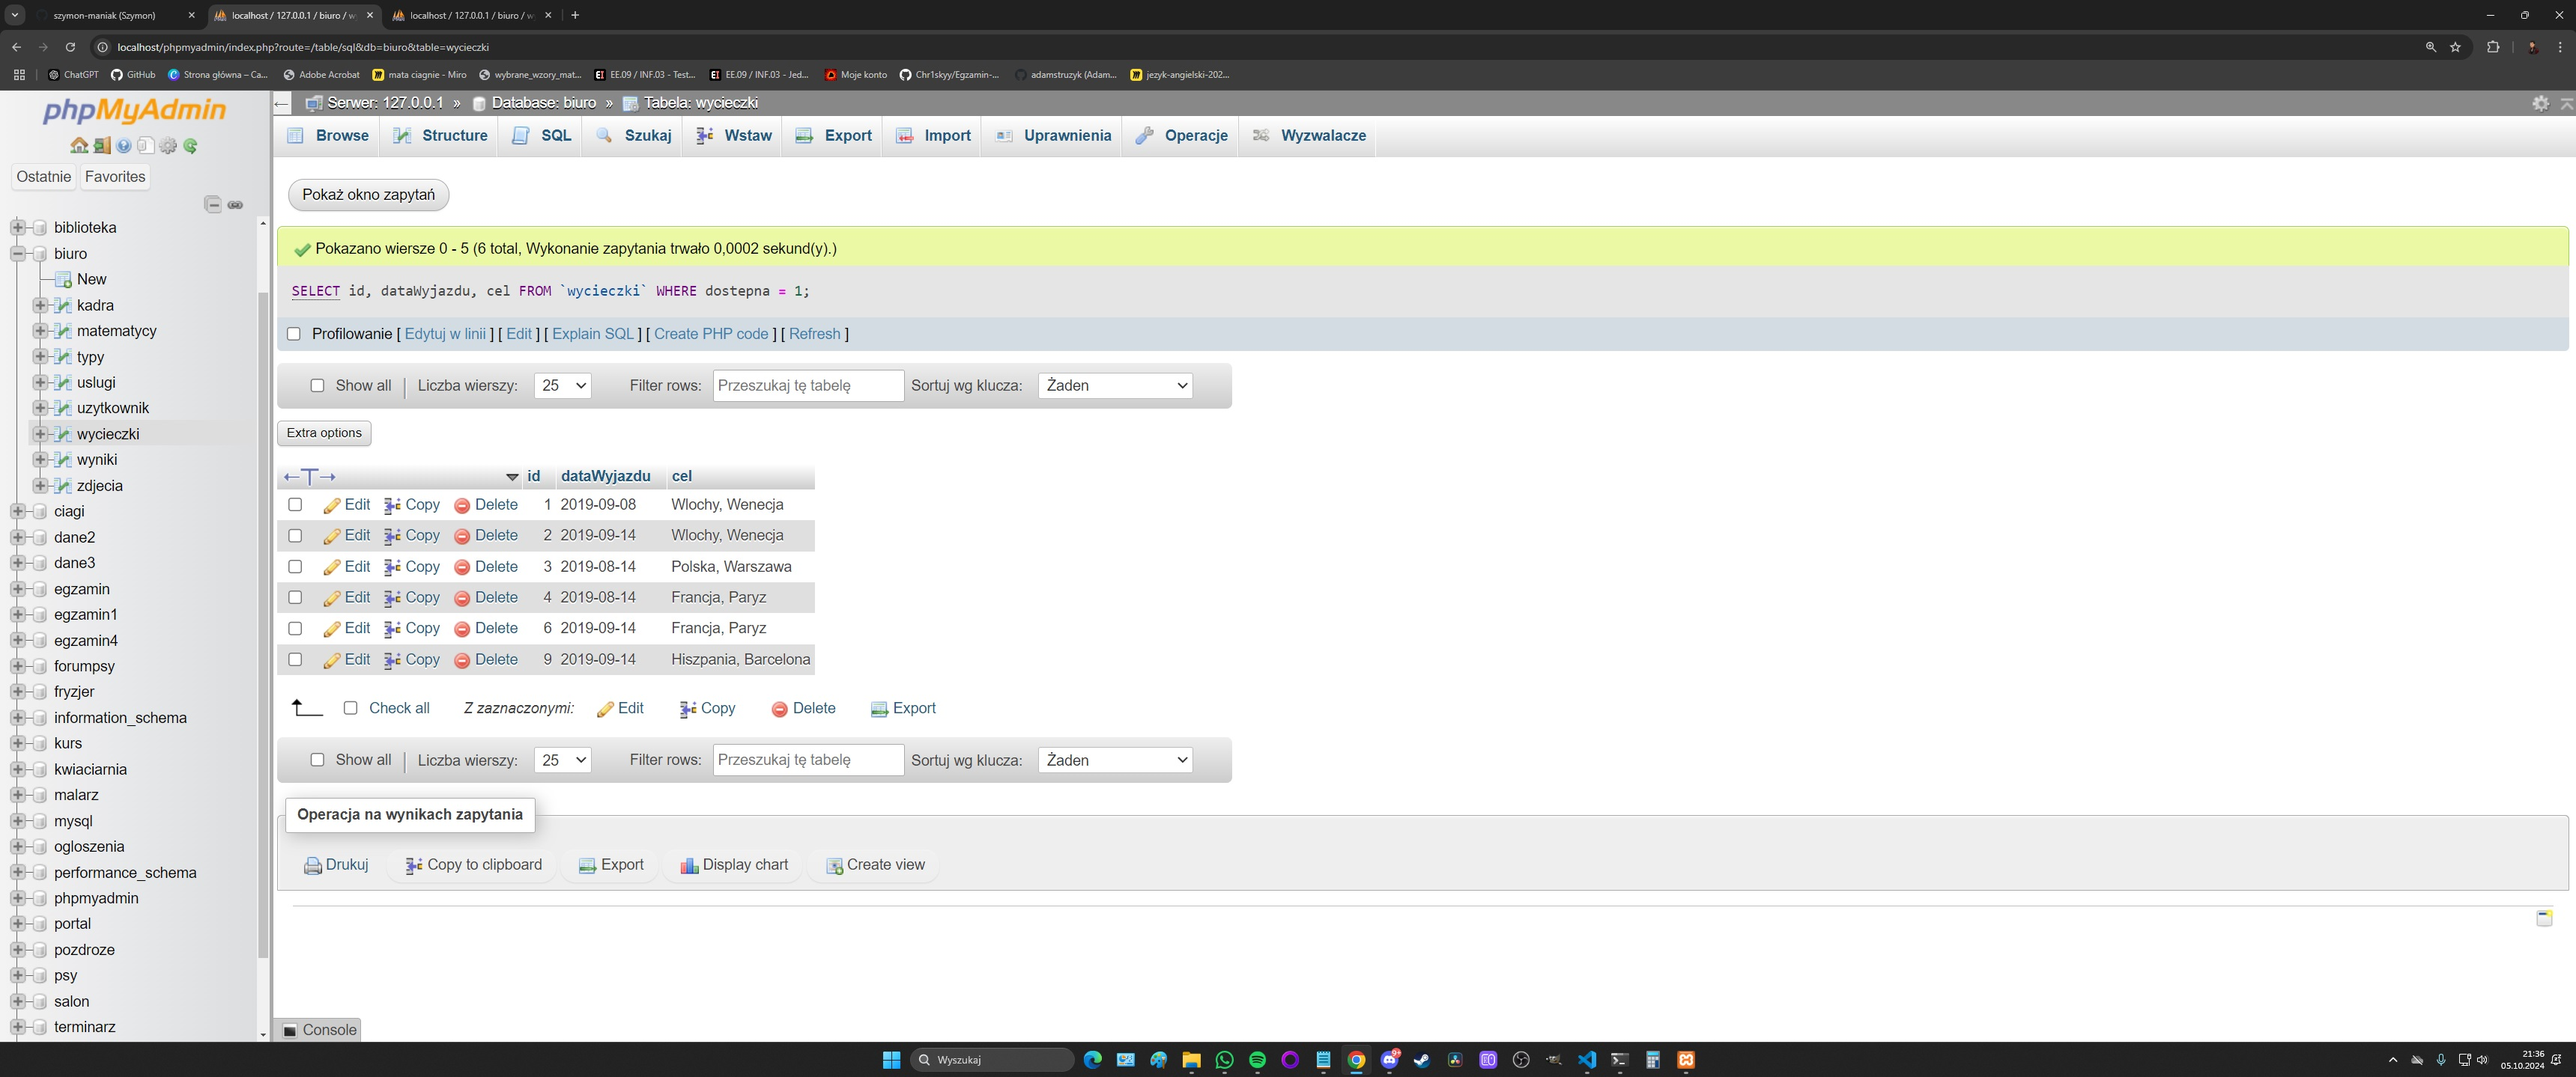
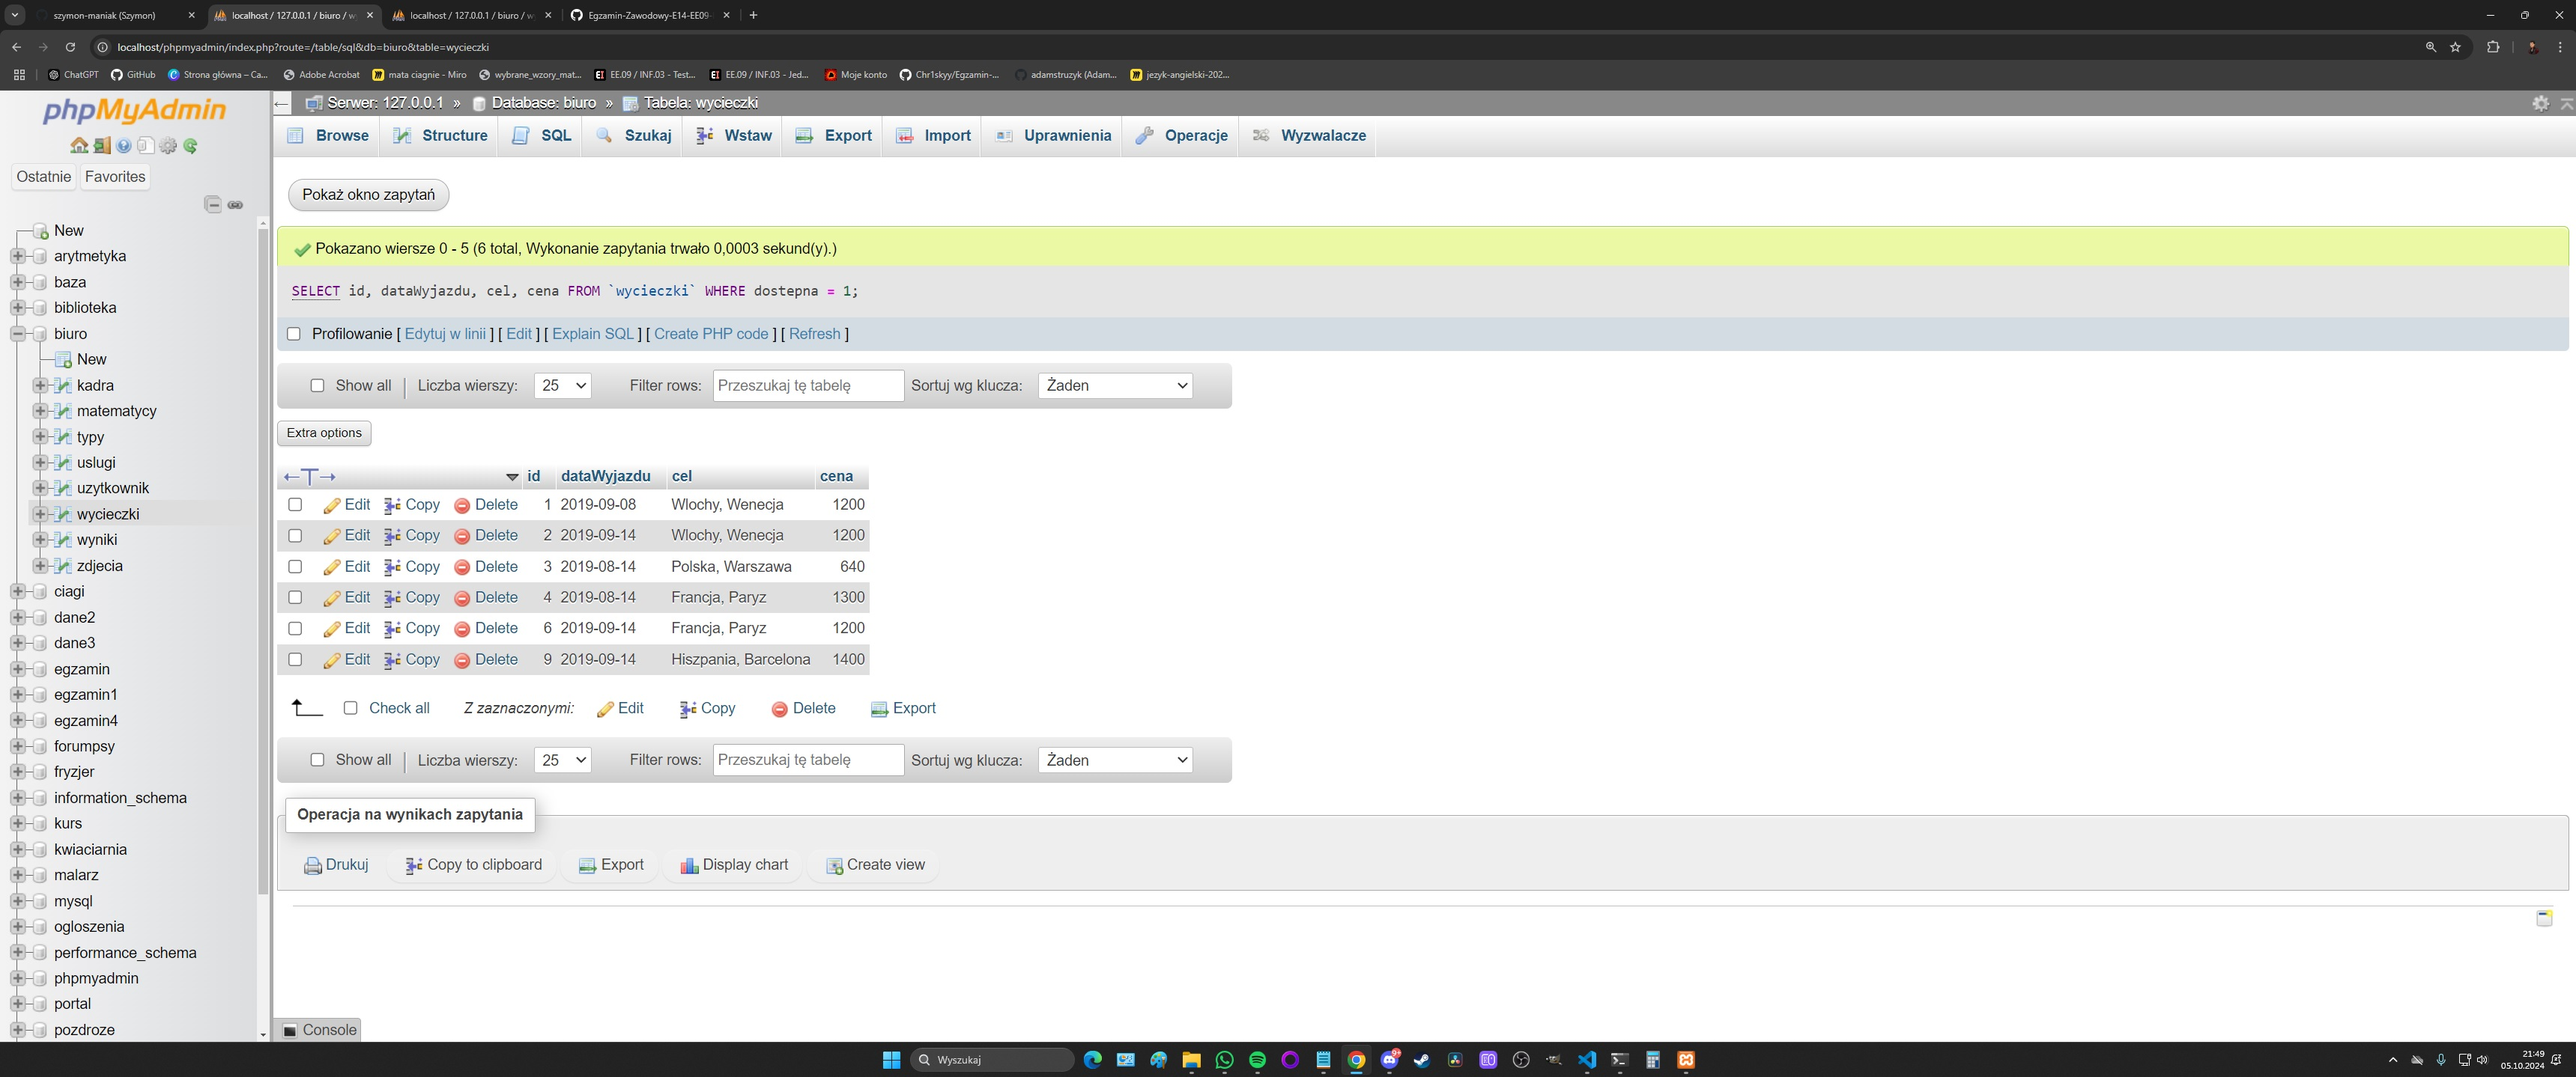
php

diff --git a/julcia/inf_03_2023_01_04_SG/rozwiazanie/wycieczki.php b/julcia/inf_03_2023_01_04_SG/rozwiazanie/wycieczki.php
@@ -14,6 +14,24 @@
         <h3>Wycieczki, na które są wolne miejsca</h3>
         <ul>
             <!-- skrypt 1 -->
+            <?php
+                $polaczenie = mysqli_connect('localhost', 'root', '', 'biuro');
+                if(!$polaczenie){
+                    exit();
+                }
+                else{
+                    $zapytanie = "SELECT id, dataWyjazdu, cel, cena FROM `wycieczki` WHERE dostepna = 1;";
+                    $odpowiedz = mysqli_query($polaczenie, $zapytanie);
+                    while($tablica = mysqli_fetch_array($odpowiedz)){
+                        $id = $tablica['id'];
+                        $dataWyjazdu = $tablica['dataWyjazdu'];
+                        $cel = $tablica['cel'];
+                        $cena = $tablica['cena'];
+                        echo "<li>$id. dnia $dataWyjazdu jedziemy do $cel, cena: $cena<br></li>";
+                    }
+                }
+                mysqli_close($polaczenie);
+            ?>
         </ul>
     </section>
     <aside>
@@ -36,6 +54,22 @@
     <main>
         <h2>Nasze zdjęcia</h2>
         <!-- skrypt 2 -->
+        <?php
+            $polaczenie = mysqli_connect('localhost', 'root', '', 'biuro');
+            if(!$polaczenie){
+                exit();
+            }
+            else{
+                $zapytanie = "SELECT nazwaPliku, podpis FROM `zdjecia` ORDER BY `zdjecia`.`podpis` DESC;";
+                $odpowiedz = mysqli_query($polaczenie, $zapytanie);
+                while($tablica = mysqli_fetch_array($odpowiedz)){
+                    $nazwaPliku = $tablica['nazwaPliku'];
+                    $podpis = $tablica['podpis'];
+                    echo "<img src='$nazwaPliku' alt='$podpis'>";
+                }
+            }
+            mysqli_close($polaczenie);
+        ?>
     </main>
     <nav>
         <h2>Skontaktuj się</h2>
